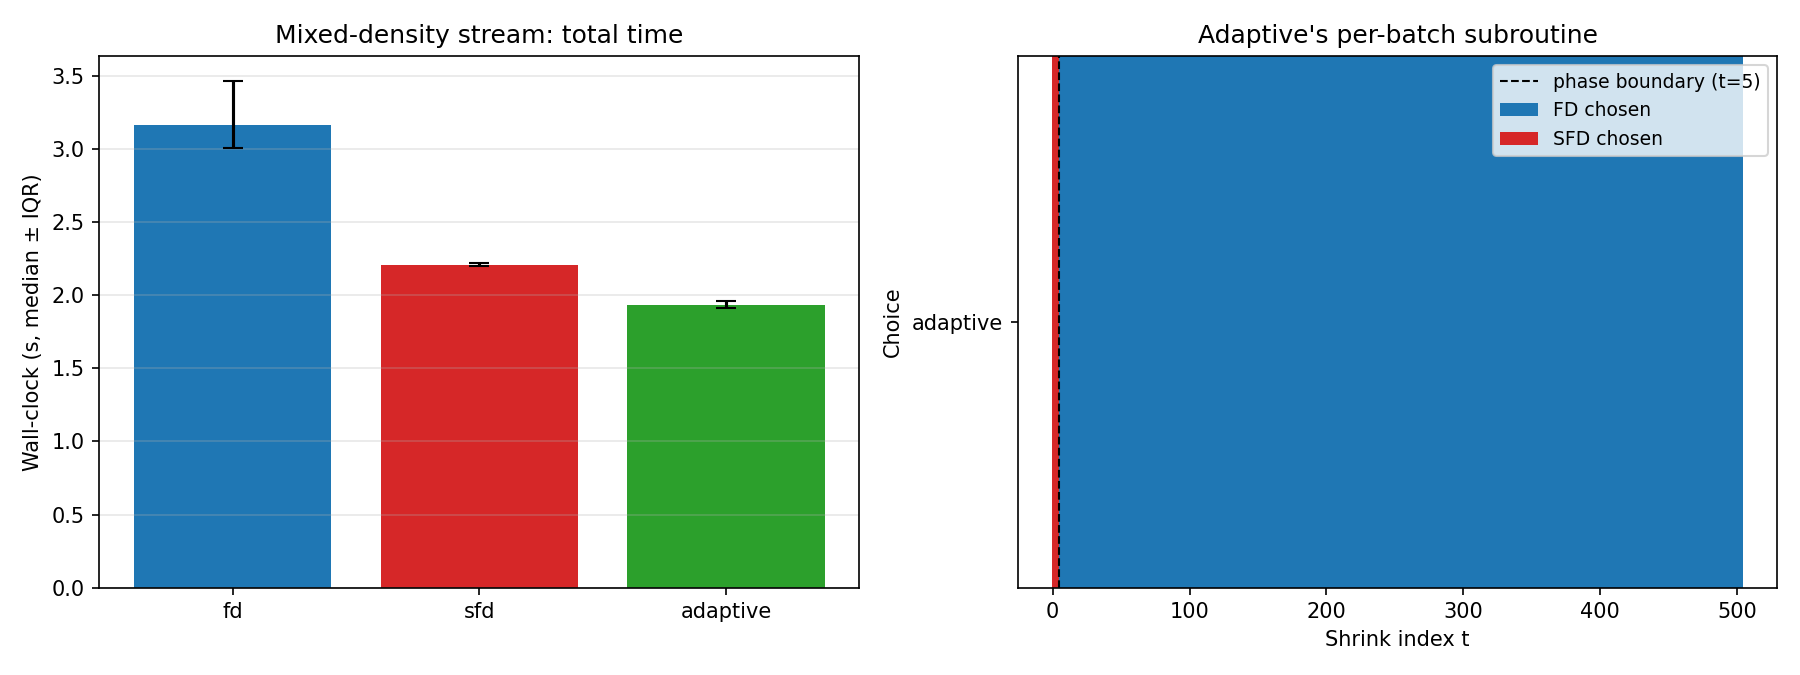
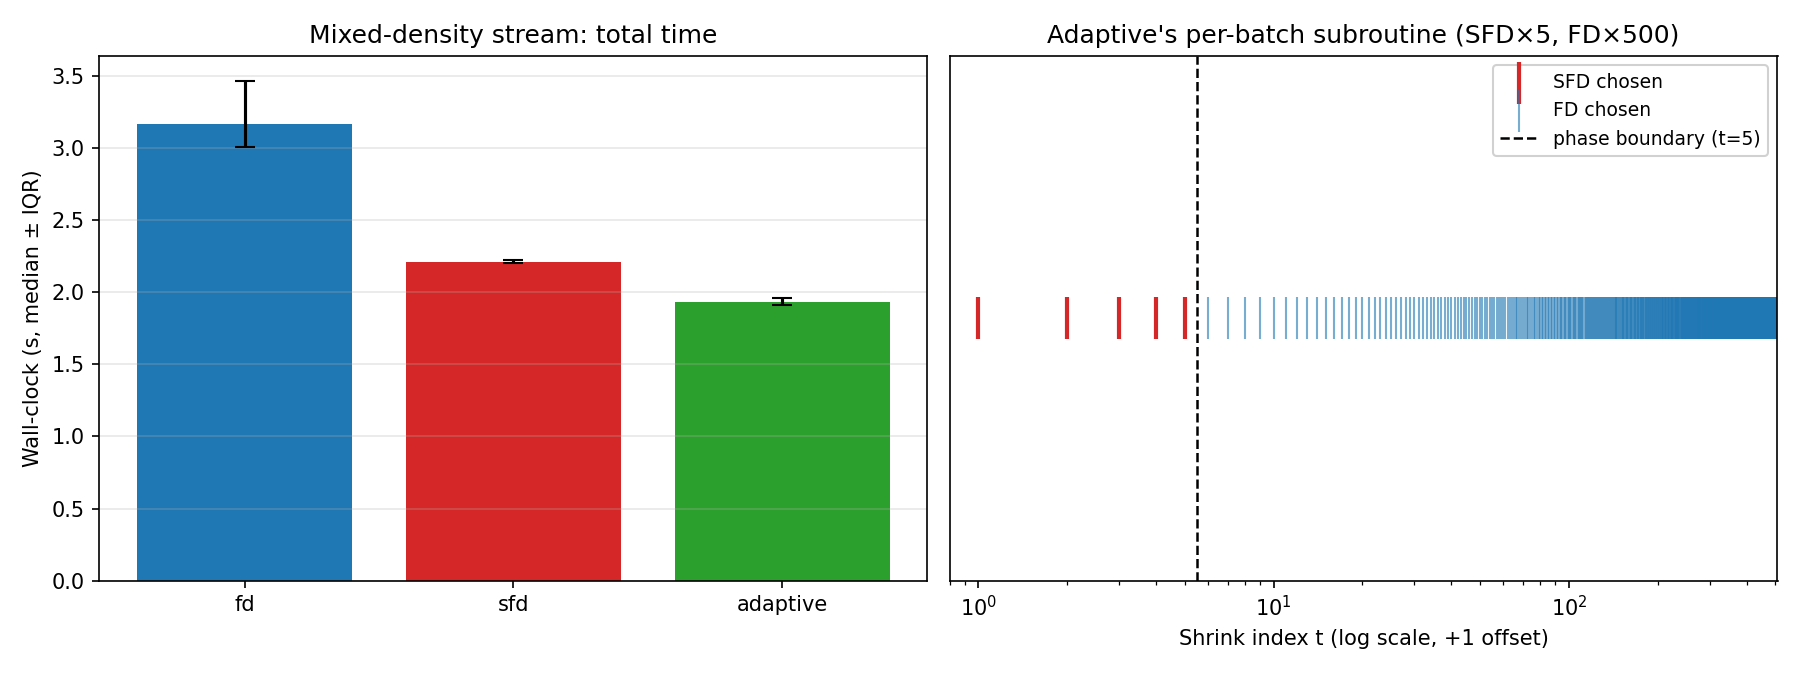
exp3: clearer right-panel visualisation (#10)
The right panel ('Adaptive's per-batch subroutine') was a stacked-bar
plot that compressed 5 SFD batches into a near-invisible sliver next
to 500 FD batches on a linear x-axis, making the SFD->FD switch
hard to read.

Replaced with a one-row scatter strip on a log-spaced (t+1) x-axis:
- 5 red ticks at t=0..4 (SFD chosen)
- 500 blue ticks at t=5..504 (FD chosen)
- Phase boundary marked with a dashed line at t=5
- Title shows the SFDxN / FDxN breakdown for at-a-glance reading

No data change. Figure regenerated from current results/exp3.json.

diff --git a/experiments/exp3_mixed_stream.py b/experiments/exp3_mixed_stream.py
@@ -74,28 +74,41 @@ def plot(data: dict, save_path: Path) -> None:
     ax1.set_title("Mixed-density stream: total time")
     ax1.grid(True, alpha=0.3, axis="y")
 
-    # Right: Adaptive's per-batch choice
-    ts = [r["t"] for r in log]
-    is_fd = [1 if r["choice"] == "fd" else 0 for r in log]
-    # Mark phase boundary via input row index
+    # Right: Adaptive's per-batch choice on a log-spaced x-axis so the few
+    # SFD batches near t=0 are visible alongside the long FD tail. Each
+    # batch is a coloured tick on a horizontal line; phase boundary is
+    # marked.
+    import numpy as np
+    from matplotlib.patches import Patch
+    ts = np.array([r["t"] for r in log], dtype=float)
+    is_fd = np.array([1 if r["choice"] == "fd" else 0 for r in log])
+    n_fd = int(is_fd.sum())
+    n_sfd = int((1 - is_fd).sum())
     phase_t = None
     for r in log:
         if r["start"] >= data["params"]["n1"]:
             phase_t = r["t"]
             break
 
-    ax2.bar(ts, is_fd, color="tab:blue", label="FD chosen", width=1.0)
-    ax2.bar(ts, [1 - x for x in is_fd], bottom=is_fd, color="tab:red",
-            label="SFD chosen", width=1.0)
+    # Plot SFD and FD batches as separate scatter series (log x, t+1).
+    sfd_ts = ts[is_fd == 0] + 1
+    fd_ts  = ts[is_fd == 1] + 1
+    ax2.scatter(sfd_ts, np.zeros_like(sfd_ts), marker="|",
+                color="tab:red", s=400, linewidths=2, label="SFD chosen")
+    ax2.scatter(fd_ts,  np.zeros_like(fd_ts),  marker="|",
+                color="tab:blue", s=400, linewidths=1, alpha=0.6,
+                label="FD chosen")
     if phase_t is not None:
-        ax2.axvline(phase_t - 0.5, color="k", ls="--", lw=1,
+        ax2.axvline(phase_t + 1 - 0.5, color="k", ls="--", lw=1.2,
                     label=f"phase boundary (t={phase_t})")
-    ax2.set_xlabel("Shrink index t")
-    ax2.set_ylabel("Choice")
-    ax2.set_yticks([0.5])
-    ax2.set_yticklabels(["adaptive"])
-    ax2.set_title("Adaptive's per-batch subroutine")
-    ax2.legend(fontsize=9)
+    ax2.set_xscale("log")
+    ax2.set_xlim(0.8, ts.max() + 5)
+    ax2.set_yticks([])
+    ax2.set_xlabel("Shrink index t (log scale, +1 offset)")
+    ax2.set_title(f"Adaptive's per-batch subroutine "
+                  f"(SFD×{n_sfd}, FD×{n_fd})")
+    ax2.legend(loc="upper right", fontsize=9, framealpha=0.9)
+    ax2.set_ylim(-1, 1)
 
     plt.tight_layout()
     save_path.parent.mkdir(parents=True, exist_ok=True)
